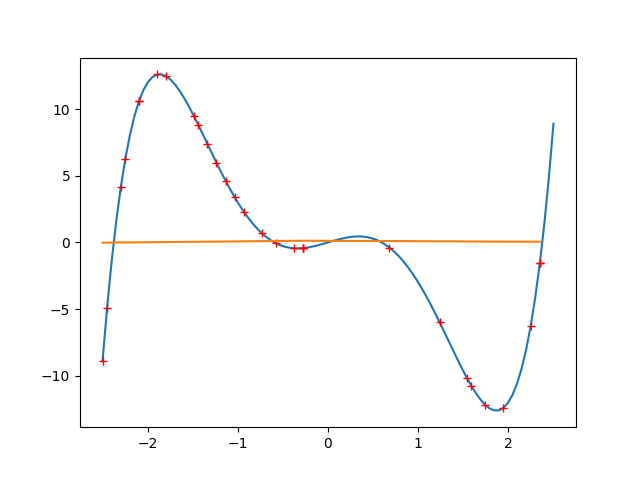
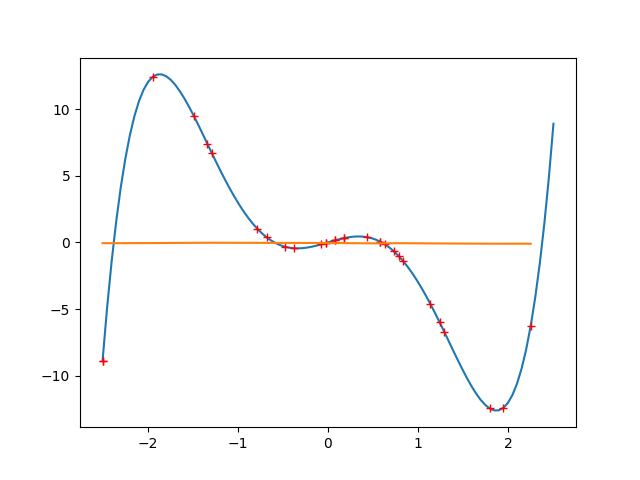
[3.0] - Changing Parameters

diff --git a/fivedegree/build_model.py b/fivedegree/build_model.py
@@ -14,15 +14,16 @@ std = x_sample.std()
 class main_model(nn.Module):
     def __init__(self):
         super().__init__()
-        self.in_linear = nn.Linear(1,2,bias=True)
+        self.in_linear = nn.Linear(1,32,bias=True)
+        self.mid_linear = nn.Linear(32,32,bias=True)
+        self.out_linear = nn.Linear(32,1,bias=True)
         self.relu = nn.ReLU()
-        self.out_linear = nn.Linear(2,1,bias=True)
     
     def forward(self,x):
         x = (x-mean)/std
-        x1 = self.in_linear(x)
-        x_temp = self.relu(x1)
-        return self.out_linear(x_temp)
+        x1 = self.relu(self.in_linear(x))
+        x2 = self.relu(self.mid_linear(x1))
+        return self.out_linear(x2)
 
 # - - - - -
 

diff --git a/fivedegree/train_model.py b/fivedegree/train_model.py
@@ -9,8 +9,8 @@ from gen_data import x_sample,y_sample,x_values,y_values
 # - - - - -
 
 loss_function = nn.MSELoss()
-learning_rate = 5e-6
-epochs = 10
+learning_rate = 1e-3
+epochs = 500
 
 # - - - - -
 

diff --git a/README.md b/README.md
@@ -194,6 +194,42 @@ And the results... didn't change?
 
 That's because a five degree function has such a complexity that our little neural network can't stand a chance. Let's change a little bit our parameters to see what happens.
 
+## Changing Parameters
+
+The first thing we must do is: in the architecture of the neural network, inside [build_model.py](fivedegree/build_model.py), there must be a new layer with many more neurons (for example **32 neurons**) with the activation function called between the `in, mid` and `out linears`.
+```
+class main_model(nn.Module):
+    def __init__(self):
+        super().__init__()
+        self.in_linear = nn.Linear(1,32,bias=True)
+        self.mid_linear = nn.Linear(32,32,bias=True)
+        self.out_linear = nn.Linear(32,1,bias=True)
+        self.relu = nn.ReLU()
+    
+    def forward(self,x):
+        x = (x-mean)/std
+        x1 = self.relu(self.in_linear(x))
+        x2 = self.relu(self.mid_linear(x1))
+        return self.out_linear(x2)
+```
+Then, we will change a few numbers on the optimizer values inside [train_model.py](fivedegree/train_model.py).
+```
+loss_function = nn.MSELoss()
+learning_rate = 1e-3
+epochs = 500
+```
+With a bigger learning rate, the model's parameters will be changed quickly and intensely. Furthermore, it will have more time to learn, since we increased the epochs to 500.
+
+**Disclaimer:** You must keep in mind that while training bigger or smaller models for more or less complex tasks, these values and parameters should always be quite different.
+
+### Evaluation (changing parameters)
+
+Now, after changing completely our learning rate, epochs and number of neurons, the results are completely different.
+
+![atc5dg](fivedegree/img/after_training_changes.png)
+
+It's clear that the model could replicate most of the five degree function curve, which shows to us that it's capable of understanding behaviours based on complex patterns.
+
 ## Setup Instructions
 To run the code and test the neural network model, start by cloning the github repository.
 ```
